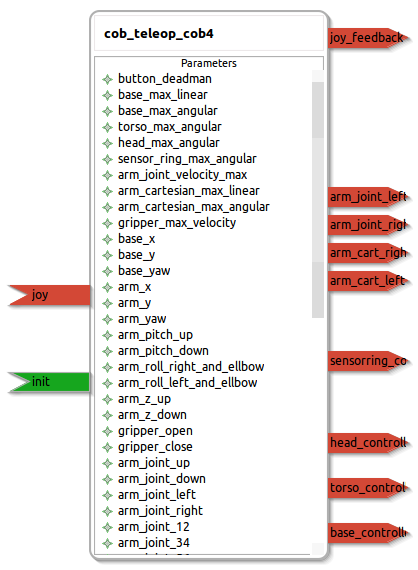
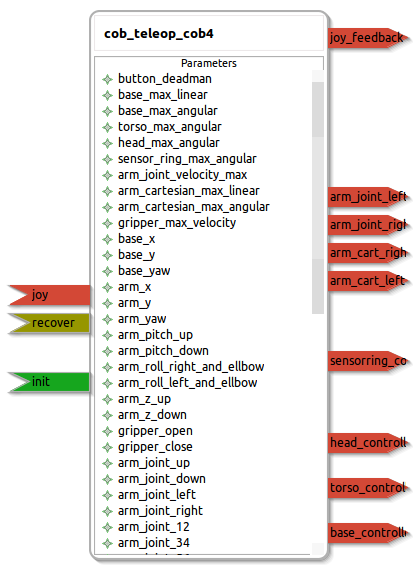
move from sss to service calls

Changed region(s): [[0.0311, 0.5368, 0.2488, 0.5965], [0.7464, 0.5368, 0.7775, 0.5667]]

diff --git a/cob_teleop_cob4/common/src/cob_teleop_cob4_common.cpp b/cob_teleop_cob4/common/src/cob_teleop_cob4_common.cpp
@@ -16,6 +16,7 @@
 #include <cob_script_server/ScriptAction.h>
 #include <string>
 #include <vector>
+#include <cob_srvs/Trigger.h>
 /* protected region user include files end */
 
 class cob_teleop_cob4_config
@@ -139,6 +140,9 @@ class cob_teleop_cob4_impl
     //double leds[4];
 
     XmlRpc::XmlRpcValue LEDS;
+
+    cob_srvs::Trigger trigger;
+
     /* protected region user member variables end */
 
 public:
@@ -150,7 +154,8 @@ public:
       ROS_INFO("Connecting to script_server");
       client->waitForServer();
       ROS_INFO("Connected");
-       
+
+
         /* protected region user constructor end */
     }
 
@@ -188,10 +193,6 @@ public:
     data.out_head_controller_command_active=0;
     data.out_arm_cart_left_active=0;
     data.out_arm_cart_right_active=0;
-    
-    //test
-   //ROS_INFO("LEDS: %i", (config.led_mode[1].size()));
-
     
     if (data.in_joy.buttons.size()<=5)//wait for complete joypad!
     {  
@@ -398,13 +399,17 @@ public:
     /* protected region user additional functions on begin */
     void init_recover(std::string component)
   {
-    sss.component_name=component;
-    sss.function_name="init";
-    client->sendGoal(sss);
+    //sss.component_name=component;
+    //sss.function_name="init";
+    //client->sendGoal(sss);
     ROS_INFO("initialising %s",component.c_str());
-    sss.function_name="recover";
+    //sss.function_name="recover";
     ROS_INFO("recovering %s",component.c_str());
-    client->sendGoal(sss);
+    //client->sendGoal(sss);
+    ROS_INFO("calling");
+    ros::service::call(("/%s_controler/init",component), trigger);
+    ROS_INFO("calling");
+
   }
   
       sensor_msgs::JoyFeedbackArray leds_on(XmlRpc::XmlRpcValue leds)

diff --git a/cob_teleop_cob4/ros/src/cob_teleop_cob4_ros.cpp b/cob_teleop_cob4/ros/src/cob_teleop_cob4_ros.cpp
@@ -249,14 +249,8 @@ int main(int argc, char** argv)
     cob_teleop_cob4_ros node;
     node.configure();
 
-    ros::Rate loop_rate(30.0);
-
-    while(node.n_.ok())
-    {
-        node.update();
-        loop_rate.sleep();
-        ros::spinOnce();
-    }
+ // if cycle time == 0 do a spin() here without calling node.update()
+    ros::spin();
 
     return 0;
 }
